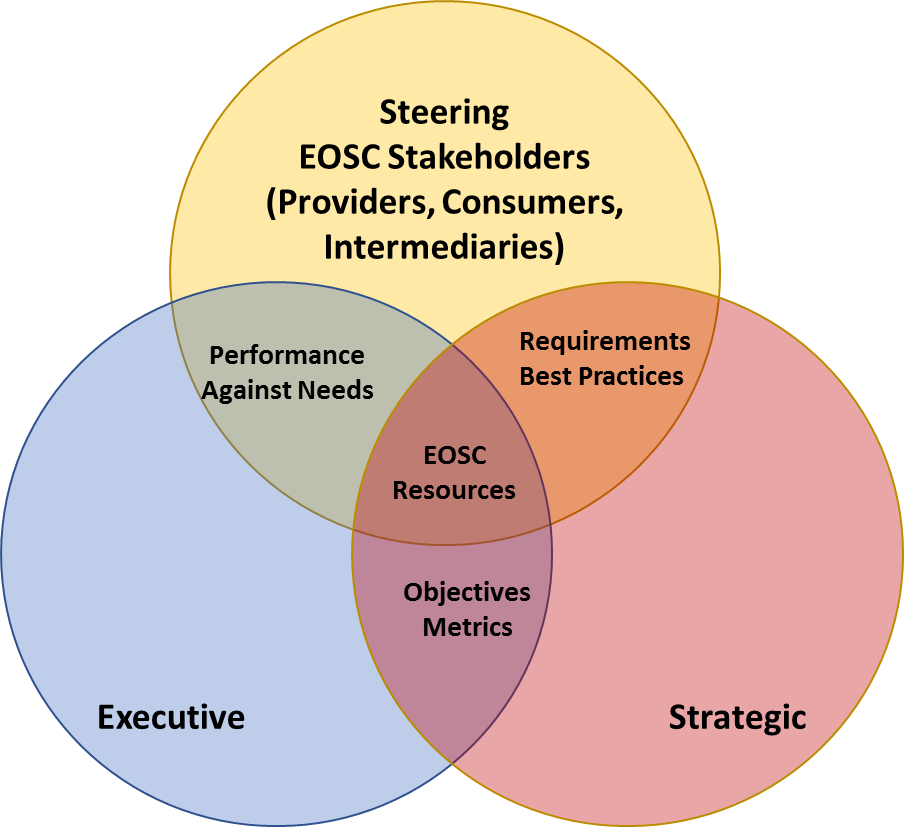
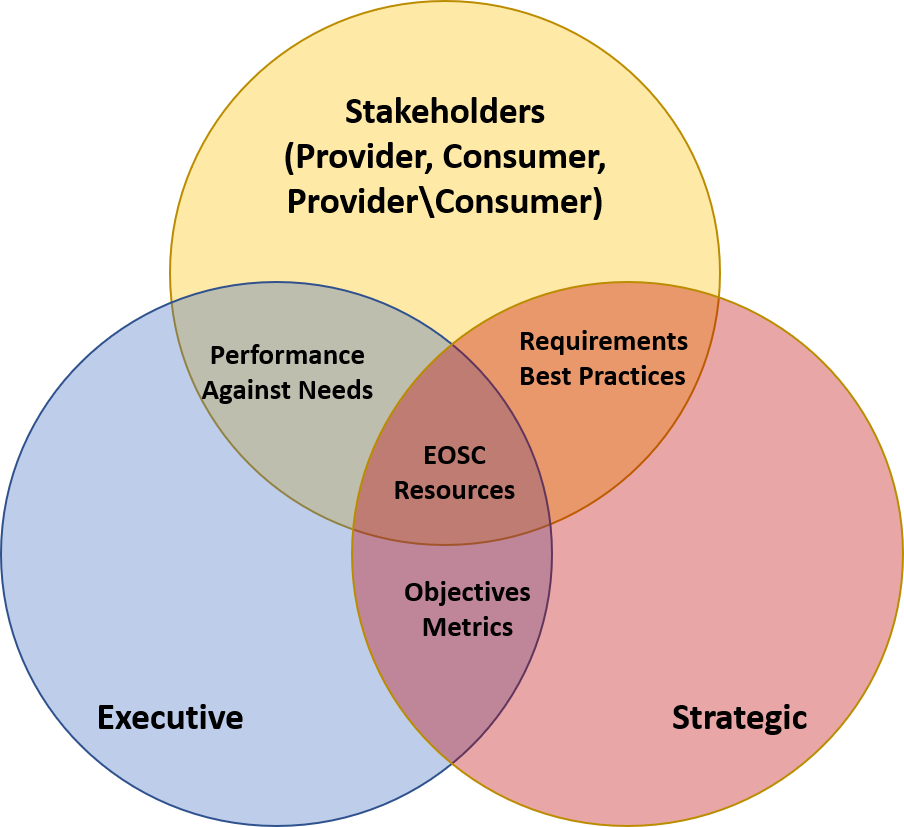
Update diagrams

diff --git a/docs/GovernanceModel.md b/docs/GovernanceModel.md
@@ -1,4 +1,4 @@
----
+---
 title: EOSC Governance Model
 menu: Governance Model
 weight: 4
@@ -13,7 +13,7 @@ The governance model should allow the engagement of all stakeholders, in all sta
 
 ![Community Governance](assets/CommunityGovernance.png) 
 
-These map very closely to the layers defined in the EOSC Declaration, of Institutional, Executive, and Advisory). In this model, the Advisory Layer from the declaration would involve the engaging citizens skills to determine the scientific and technical needs of the users. The term “Advisory” is meant, in this context, to concern engaging with all stakeholders. It is important that stakeholders are, and feel that they are, peers in the decision-making process. They should perform a role that is both advisory and steering. For this reason, we have used the word “steering” in this document rather than just “advisory”.  It should be noted that there are a wide variety of definitions of “Steering Board” and “Steering Committee” from being the final decision maker or arbitrator to providing strong guidance and direction. As regards the governance framework, the definition of the Steering layer is closer to the latter – it provides strong guidance and direction (not just advisory) to the Strategic layer, but the Strategic layer is the final decision-making body.  
+These map very closely to the layers defined in the EOSC Declaration, of Institutional, Executive, and Advisory). In this model, the Advisory Layer from the declaration would involve the engaging citizens skills to determine the scientific and technical needs of the users. The term “Advisory” is meant, in this context, to concern engaging with all stakeholders. It is important that stakeholders are, and feel that they are, peers in the decision-making process. They should perform a role that is both advisory and steering – it provides strong guidance and direction (not just advisory) to the Strategic layer, but the Strategic layer is the final decision-making body.  
 
 
 The declaration’s Institutional layer would define the strategic objectives and measure the impact and effectiveness of EOSC against these objectives and so would principally map to the Measuring Results skill. 
@@ -28,8 +28,10 @@ The intersections of these skills and layers are important in delivering an effe
 
 ## Governance Decision Flow
 
-The Steering layer would allow the stakeholders to determine the requirements, policies and principles of engagement, and make proposals on how these could be met to the Strategic Layer. The Strategic layer would review, agree and prioritise these proposals and requirements to form the strategic vision and objectives of the EOSC. The Executive layer would be responsible for ensuring that the EOSC meets this vision and these objectives by: commissioning Core resource as required; commissioning new Supported resources as required; ensuring that Supported services are properly compensated; and ensuring that the resources within EOSC are both compliant and meet the strategic objectives. Annex A outlines some delivery models for how the Executive layer might commission and support the Core and Supported resources. The Steering layer would also communicate to the Executive at how well the EOSC is meeting their requirements at an operational level, and the Executive would report this against the strategic objective to the Strategic layer.
+The Stakeholder layer would allow the stakeholders to determine the requirements, policies and principles of engagement, and make proposals on how these could be met to the Strategic Layer. The Strategic layer would review, agree and prioritise these proposals and requirements to form the strategic vision and objectives of the EOSC. The Executive layer would be responsible for ensuring that the EOSC meets this vision and these objectives by: commissioning Core resource as required; commissioning new Supported resources as required; ensuring that Supported services are properly compensated; and ensuring that the resources within EOSC are both compliant and meet the strategic objectives. Annex A outlines some delivery models for how the Executive layer might commission and support the Core and Supported resources. The Steering layer would also communicate to the Executive at how well the EOSC is meeting their requirements at an operational level, and the Executive would report this against the strategic objective to the Strategic layer.
 
 ![Governance Decision Flow](assets/GovernanceDecisionFlow.png)
  
 For example, a scientific discipline (or disciplines) within the Steering layer might define data interoperability and re-use principles for data within their domains. The Strategic layer would translate this into strategic objectives and requirements for resource within EOSC which handle such data. The Executive would have responsibility for ensuring such resources existed within EOSC, and would receive input from the Steering layer on how well these resources are in enabling data interoperability and re-use. Alternatively, communities within the Steering layer might identify key areas where training and support are required, the Strategic layer would again translate these to objectives, the Executive would ensure that there were resources within EOSC to meet these training and support requirements, and the Steering would report how effective they are.
+
+![Governance Decision Flow](assets/MasterView.png.png)
